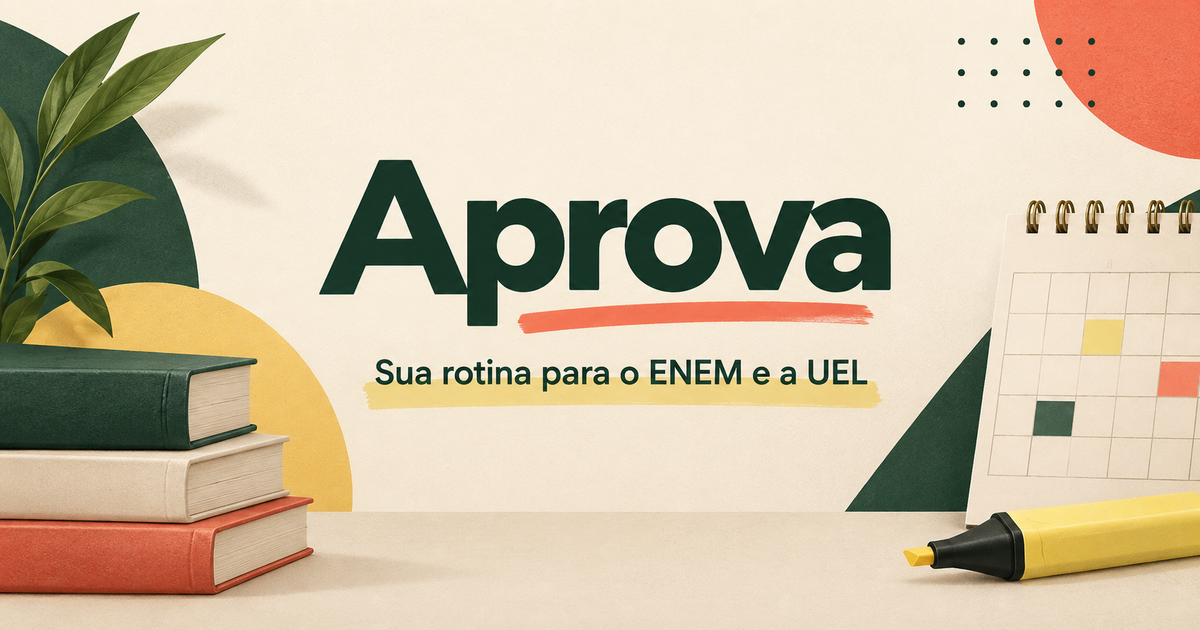
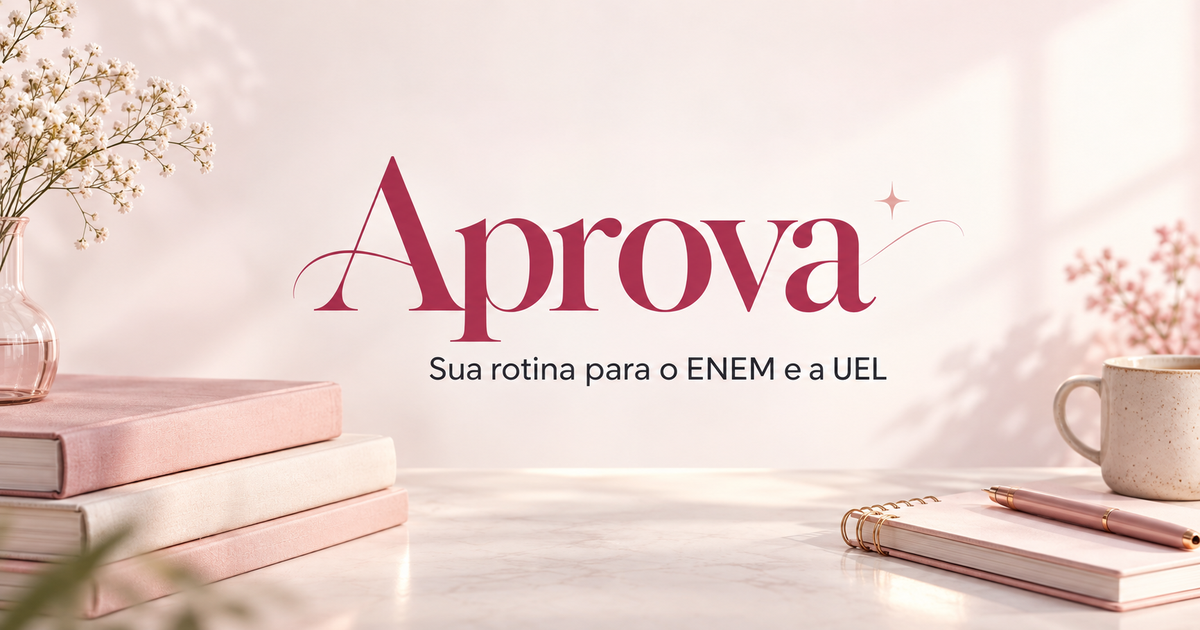
Polish pink iPhone experience

diff --git a/app/globals.css b/app/globals.css
@@ -16,3 +16,26 @@
 @media(max-width:1050px){.topic-grid{grid-template-columns:repeat(2,1fr)}.lesson-layout{grid-template-columns:1fr}.lesson-side{grid-row:1}.lesson-side>div{position:static}.lesson-side nav{display:none}.achievement-grid{grid-template-columns:repeat(2,1fr)}}
 @media(max-width:900px){.sidebar{top:0;bottom:0;width:260px;height:auto;padding:25px 18px;display:flex;transform:translateX(-105%);transition:.25s}.sidebar.open{transform:translateX(0);box-shadow:15px 0 45px #071b1566}.sidebar .brand,.sidebar .focus-card,.sidebar .profile{display:flex}.sidebar nav{display:grid;grid-template-columns:1fr}.nav-item{flex-direction:row;gap:12px;font-size:13px;padding:11px}.nav-item.active{background:#fff;color:#194538}.menu-close{display:block;margin-left:auto;color:white}.menu-toggle{display:grid}.backdrop{display:block;position:fixed;inset:0;background:#061a1459;border:0;z-index:15}.content{grid-column:1}.dashboard-bottom{grid-template-columns:1fr}.writing-grid{grid-template-columns:1fr}.simulation-options{grid-template-columns:1fr}.profile-grid{grid-template-columns:1fr}.topbar{justify-content:flex-start}.mobile-brand{display:block}.search-wrap{flex:1;width:auto}.icon-button{position:static}.streak{position:static}.page{padding:30px 24px}}
 @media(max-width:600px){.topbar{height:64px;position:sticky;padding:10px 14px}.mobile-brand{display:none}.search-wrap{position:static}.search-wrap .search{position:static;width:100%;padding:9px}.search-results{top:60px;left:12px;right:12px}.streak{font-size:0;padding:9px}.page{padding:23px 14px}.page-title h1{font-size:29px}.page-title p{font-size:12px}.topic-grid{grid-template-columns:1fr}.filters{overflow:auto}.filters select{min-width:125px}.metrics{grid-template-columns:1fr 1fr}.calendar-title{display:block}.legend{flex-wrap:wrap}.calendar-grid{gap:4px}.calendar-day{aspect-ratio:1;border-radius:7px}.revision-list article{grid-template-columns:45px 1fr auto}.revision-list .secondary{display:none}.review-date{width:42px;height:42px}.lesson-header{padding:22px}.lesson-header h1{font-size:31px}.lesson-icon{display:none}.prose,.video-section,.quiz-section{padding:18px}.exam-tips{grid-template-columns:1fr}.lesson-layout{display:flex;flex-direction:column}.lesson-side{order:-1}.quiz-result{align-items:flex-start;flex-wrap:wrap}.quiz-result button{margin-left:0}.profile-main{align-items:stretch;flex-direction:column}.profile-main .primary{justify-content:center}.plan-day{grid-template-columns:48px 1fr}.page-title{margin-bottom:20px}.greeting{display:block}.greeting .primary{margin-top:14px;width:auto;height:auto;font-size:12px;padding:12px}.hero-grid{margin-bottom:25px}.achievement-grid{grid-template-columns:1fr 1fr}}
+
+/* Blush edition — clean girl visual system */
+:root{
+  --ink:#4c2f3b;--muted:#8c727c;--cream:#fff9fb;--paper:#ffffff;--line:#f1dfe6;
+  --green:#d44f83;--green-soft:#fff0f5;--coral:#ed6f9d;--coral-soft:#ffe6ef;
+  --purple:#a669b2;--amber:#d69a65;--ring-empty:#f6dce6;
+}
+html{background:#fff9fb}.app-shell{background:radial-gradient(circle at 78% 0,#ffe7f0 0,transparent 28%),var(--cream)}
+.sidebar{background:linear-gradient(180deg,#ad3e70 0%,#872953 100%);box-shadow:14px 0 40px #9e3a6512}
+.brand{font-family:var(--font-geist-sans),Arial,sans-serif;letter-spacing:-.04em}.brand-mark{background:#fff4f8;color:#bf4377;border-radius:50%;box-shadow:0 8px 22px #6d17352b}
+.nav-item{color:#ffe6f0}.nav-item.active{background:#fff;color:#a73365;box-shadow:0 8px 22px #6818341f}.nav-item b{background:#fff0f5;color:#ad3e70}
+.focus-card{background:#ffffff17;border-color:#ffffff28}.focus-card span,.profile small{color:#ffe2ed}.focus-card button{background:#fff;color:#a73365;border-radius:999px}.profile .avatar,.big-avatar{background:linear-gradient(135deg,#ff98bd,#d84c83)}
+.topbar{background:#fffafcdc;border-color:#f2dfe7}.search{background:#fff;border-color:#f1dde5;box-shadow:0 7px 26px #a3446b0a}.streak{background:#fff1f6;border-color:#f2ccdb;color:#bf4777}.icon-button{background:#fff;border-color:#f0dce4}
+.greeting h1,.page-title h1,.section-heading h2,.topic-card h3,.lesson-header h1,.prose h2,.video-section h2,.quiz-section h2{color:#512f3e;letter-spacing:-.025em}
+.eyebrow{color:#c0527d}.primary{background:linear-gradient(135deg,#ee75a1,#cf467d);border-radius:999px;box-shadow:0 10px 25px #d44f8330}.secondary{border-color:#edceda}.today-card,.plan-card,.week-card,.revision-card,.topic-card,.calendar-card,.performance-card,.question,.essay-structure,.competencies,.profile-main,.profile-stats{box-shadow:0 12px 36px #9c426510;border-color:#f2dfe6}.plan-card,.lesson-header{background:linear-gradient(145deg,#fff0f5,#fffafd)}.ring:after{background:#fff4f8}.time-pill,.week-score{background:#fff0f5;color:#a64a70}.task{border-color:#f2dfe6}.task:hover{border-color:#e89ab8}.progress-track{background:#f5e4eb}.progress-track span,.day.done,.calendar-day.done{background:linear-gradient(90deg,#ed77a2,#d14b80)}
+.green{background:#ffeaf2;color:#d04d80}.coral{background:#ffe4ed;color:#d94e82}.purple{background:#f7e9f7;color:#9e5aa8}.amber{background:#fff1e7;color:#c6844d}.done-badge{background:#ffedf4;color:#c83f75}.link,.card-link,.plan-card button{color:#c84679}.summary,.quiz-result,.explanation,.competencies aside{background:#fff0f5}.summary{border-left-color:#dc5a8b}.formulas code{background:#833052}.example{background:#fff8fb;border-color:#f0d5df}.day.current,.calendar-day.today{border-color:#e15f90;color:#d54b80}.achievement-grid article.unlocked{background:#fff0f5}.achievement-grid svg,.result-card>svg{color:#d95b8a}.lesson-tags span,.topic-meta span,.concepts span,.options button,.day-topics button{background:#fff8fb}.options button.selected{border-color:#d44f83;box-shadow:0 0 0 1px #d44f83}.options button.answer{background:#ffe8f1;color:#c33e72}.review-date{background:#ffedf4;color:#c84175}.theme-card button{background:#ffedf4;color:#c33d72}.dark{--ink:#fbeaf1;--muted:#c5a5b1;--cream:#24131b;--paper:#321b25;--line:#593143;--green:#f28ab0;--green-soft:#4a2535;--coral:#fa8eb5;--coral-soft:#55293a;--purple:#daa8e0;--amber:#e8ae7c;--ring-empty:#563041}.dark .sidebar{background:linear-gradient(180deg,#6f2345,#431528)}.dark .topbar,.dark .search,.dark .task,.dark .filters select,.dark .question,.dark .options button,.dark .profile-main input{background:#321b25}.dark .plan-card,.dark .lesson-header{background:#422333}.dark .ring:after{background:#422333}.dark .calendar-day{background:#492735}.dark .nav-item.active{background:#ffeaf2;color:#8f2b58}
+
+@media(max-width:900px){
+  .content{padding-bottom:92px}.sidebar{position:fixed;top:auto;bottom:0;left:0;right:0;width:100%;height:82px;padding:8px 8px max(8px,env(safe-area-inset-bottom));display:block;transform:none;border-radius:24px 24px 0 0;background:rgba(255,255,255,.94);backdrop-filter:blur(22px);border-top:1px solid #f0d9e2;box-shadow:0 -10px 35px #8b365916;overflow:hidden}.sidebar.open{transform:none;box-shadow:0 -10px 35px #8b365916}.sidebar .brand,.sidebar .focus-card,.sidebar .profile{display:none}.sidebar nav{display:flex;grid-template-columns:none;gap:2px;overflow-x:auto;scrollbar-width:none;padding:0}.sidebar nav::-webkit-scrollbar{display:none}.nav-item{min-width:68px;height:60px;padding:7px 6px;display:flex;flex-direction:column;justify-content:center;gap:4px;color:#a98492;font-size:9px;border-radius:16px;white-space:nowrap}.nav-item.active{background:#fff0f5;color:#c23f73;box-shadow:none}.nav-item b{position:absolute;margin:-34px 0 0 30px;padding:1px 5px}.menu-toggle,.menu-close,.backdrop{display:none!important}.topbar{border-bottom:0;background:#fff9fbe8}.page{padding:26px 22px}
+}
+@media(max-width:430px){
+  body{overflow-x:hidden}.topbar{height:66px;padding:10px 14px;gap:8px}.search-wrap{min-width:0}.search-wrap .search{height:44px;border-radius:22px;padding:10px 14px}.search input{font-size:12px}.icon-button{width:42px;height:42px;min-width:42px;border-radius:50%}.streak{height:42px;min-width:42px;padding:0 11px;border-radius:50%;font-size:0}.page{padding:20px 16px 28px}.greeting{margin-bottom:18px}.greeting h1{font-size:29px;line-height:1.08;margin:7px 0}.greeting p{font-size:12px;line-height:1.5;max-width:300px}.greeting .primary{width:100%;height:48px;margin-top:18px;font-size:13px}.hero-grid{gap:12px}.today-card,.plan-card,.week-card,.revision-card{padding:17px;border-radius:22px}.section-heading h2{font-size:19px}.task-list{margin:15px 0;gap:8px}.task{min-height:68px;border-radius:17px;padding:11px}.subject-icon,.metric-icon{width:40px;height:40px;min-width:40px;border-radius:14px}.task-time{font-size:10px}.metrics{display:flex;overflow-x:auto;scroll-snap-type:x mandatory;margin:12px -16px 20px;padding:0 16px 5px;gap:9px}.metrics article{min-width:150px;scroll-snap-align:start;border-radius:18px;padding:13px}.metrics strong{font-size:18px}.dashboard-bottom{gap:12px}.week-card{overflow:hidden}.week-days{gap:2px}.day{width:30px;height:30px}.revision-card{align-items:flex-start}.page-title{margin-bottom:18px}.page-title h1{font-size:30px;line-height:1.08}.page-title p{font-size:12px;line-height:1.55}.filters{margin-right:-16px;padding-right:16px}.filters select{height:44px;border-radius:22px}.topic-card{padding:17px;border-radius:22px}.topic-card p{min-height:0}.plan-toolbar{position:sticky;top:66px;z-index:4;border-radius:18px}.plan-toolbar button{font-size:0}.plan-toolbar button svg{width:20px}.plan-day{border-radius:18px;padding:10px;grid-template-columns:42px 1fr}.day-topics{display:grid}.day-topics button{min-height:42px;text-align:left;border-radius:12px}.calendar-card{padding:15px;border-radius:22px;overflow:hidden}.calendar-title h2{font-size:20px}.calendar-grid{gap:3px}.calendar-day{min-width:0;font-size:10px}.revision-list article{border-radius:19px;padding:12px}.simulation-options>button{border-radius:22px;padding:19px}.question{padding:16px;border-radius:22px}.question>p{font-size:14px}.options button{min-height:48px;border-radius:14px}.writing-grid{gap:12px}.essay-structure,.competencies{padding:17px;border-radius:22px}.lesson-header{padding:20px;border-radius:24px}.lesson-header h1{font-size:31px}.lesson-header p{font-size:13px;line-height:1.55}.prose,.video-section,.quiz-section{padding:17px;border-radius:22px}.prose>p{font-size:15px;line-height:1.72}.video-wrap{border-radius:18px}.lesson-side>div{border-radius:18px}.achievement-grid{gap:8px}.achievement-grid article{padding:13px 8px;border-radius:18px}.profile-main,.profile-stats{padding:18px;border-radius:22px}.big-avatar{width:68px;height:68px;border-radius:50%}
+}

diff --git a/app/layout.tsx b/app/layout.tsx
@@ -1,4 +1,4 @@
-import type { Metadata } from 'next';
+import type { Metadata, Viewport } from 'next';
 import { Geist, Geist_Mono } from 'next/font/google';
 import './globals.css';
 
@@ -18,6 +18,13 @@ export const metadata: Metadata = {
   metadataBase: new URL('https://aprova-enem-uel.igarashivictor0.chatgpt.site'),
   openGraph: { title: 'Aprova — ENEM & UEL', description: 'Sua rotina inteligente de estudos para o ENEM e Vestibular UEL.', images: ['/og.png'] },
   twitter: { card: 'summary_large_image', title: 'Aprova — ENEM & UEL', description: 'Sua rotina inteligente de estudos para o ENEM e Vestibular UEL.', images: ['/og.png'] },
+};
+
+export const viewport: Viewport = {
+  width: 'device-width',
+  initialScale: 1,
+  viewportFit: 'cover',
+  themeColor: '#fff9fb',
 };
 
 export default function RootLayout({

diff --git a/next.config.ts b/next.config.ts
@@ -1,5 +1,10 @@
 import type { NextConfig } from 'next';
 
-const nextConfig: NextConfig = { output: 'export' };
+const pagesBasePath = process.env.PAGES_BASE_PATH || '';
+const nextConfig: NextConfig = {
+  output: 'export',
+  basePath: pagesBasePath,
+  assetPrefix: pagesBasePath || undefined,
+};
 
 export default nextConfig;

diff --git a/README.md b/README.md
@@ -53,6 +53,8 @@ Os arquivos públicos são gerados em `dist/client`.
 2. Em **Settings → Pages → Build and deployment**, selecione **GitHub Actions**.
 3. Faça um push. O workflow `.github/workflows/deploy.yml` publicará o site.
 
+O workflow já usa o caminho `/aprova-enem-uel`, ideal para um repositório com esse nome. Se escolher outro nome, altere `PAGES_BASE_PATH` no workflow.
+
 ### Publicação manual
 
 ```bash
